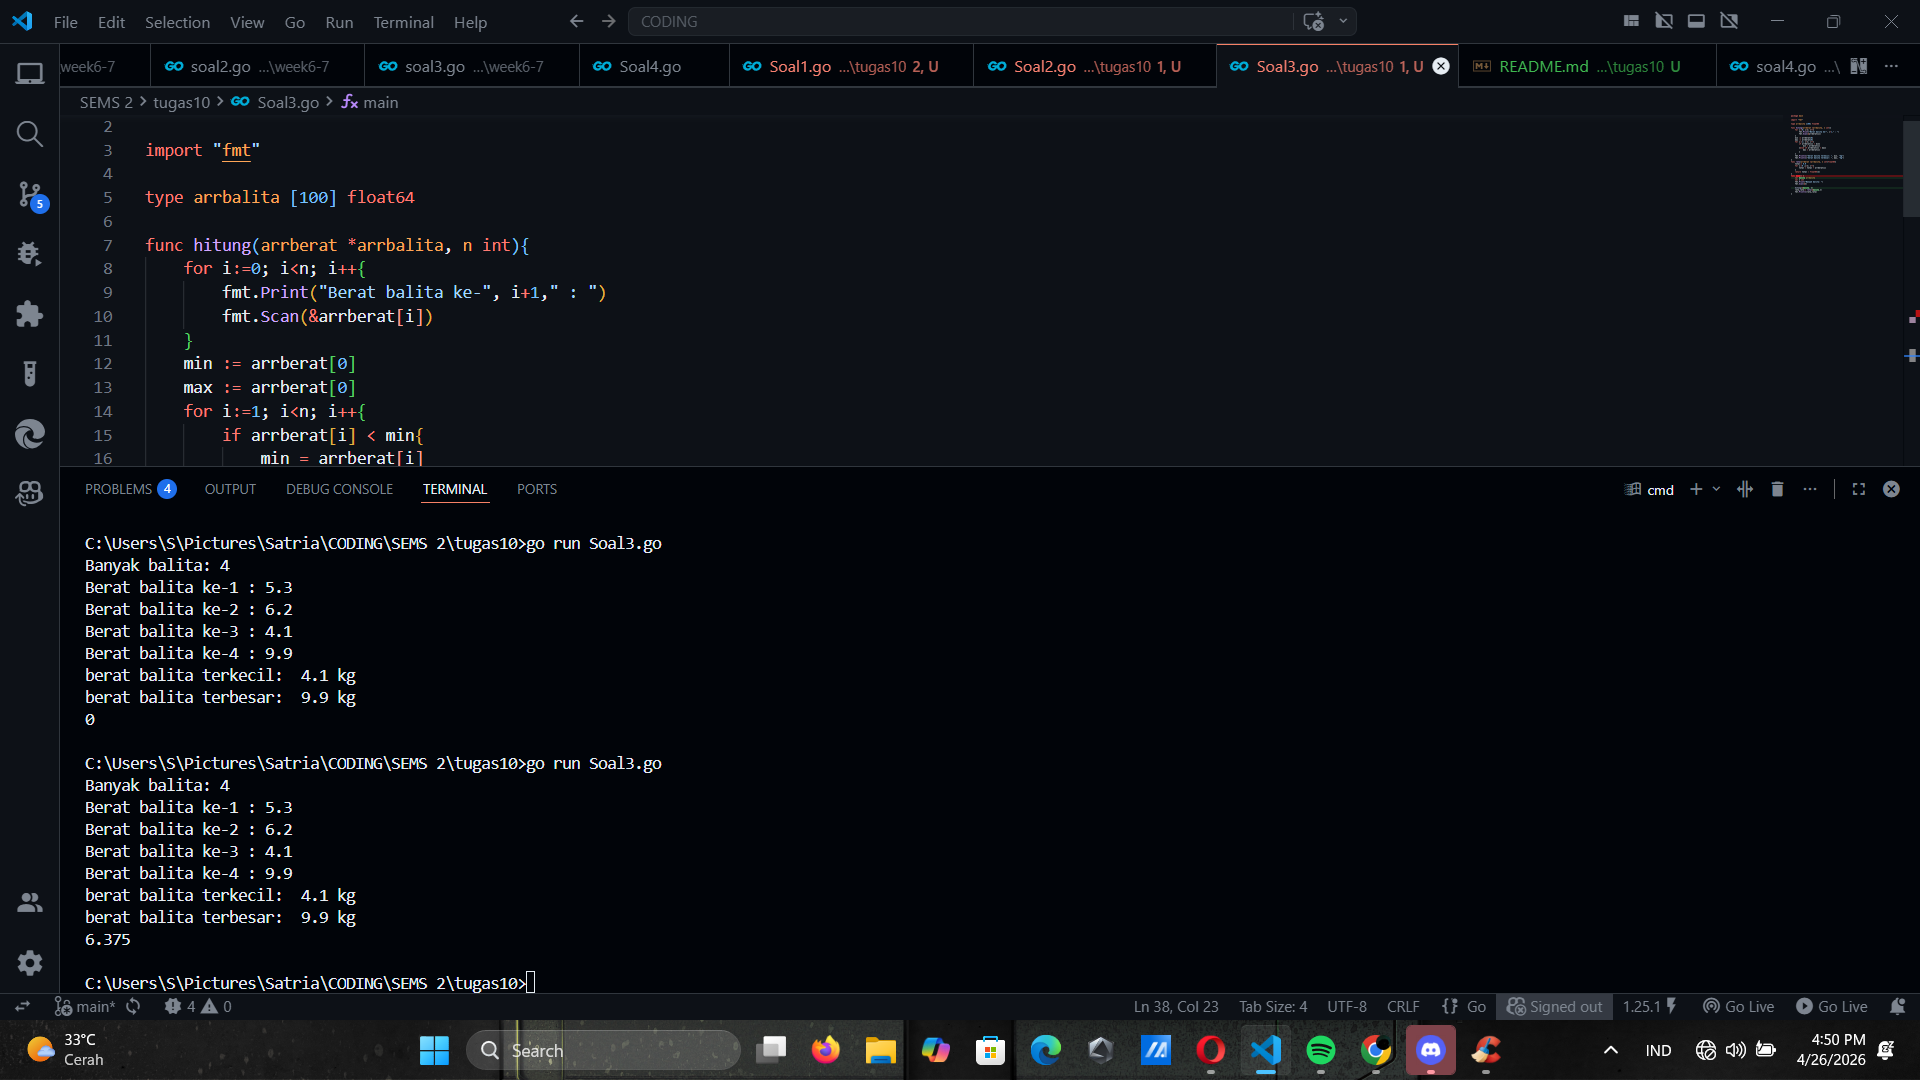
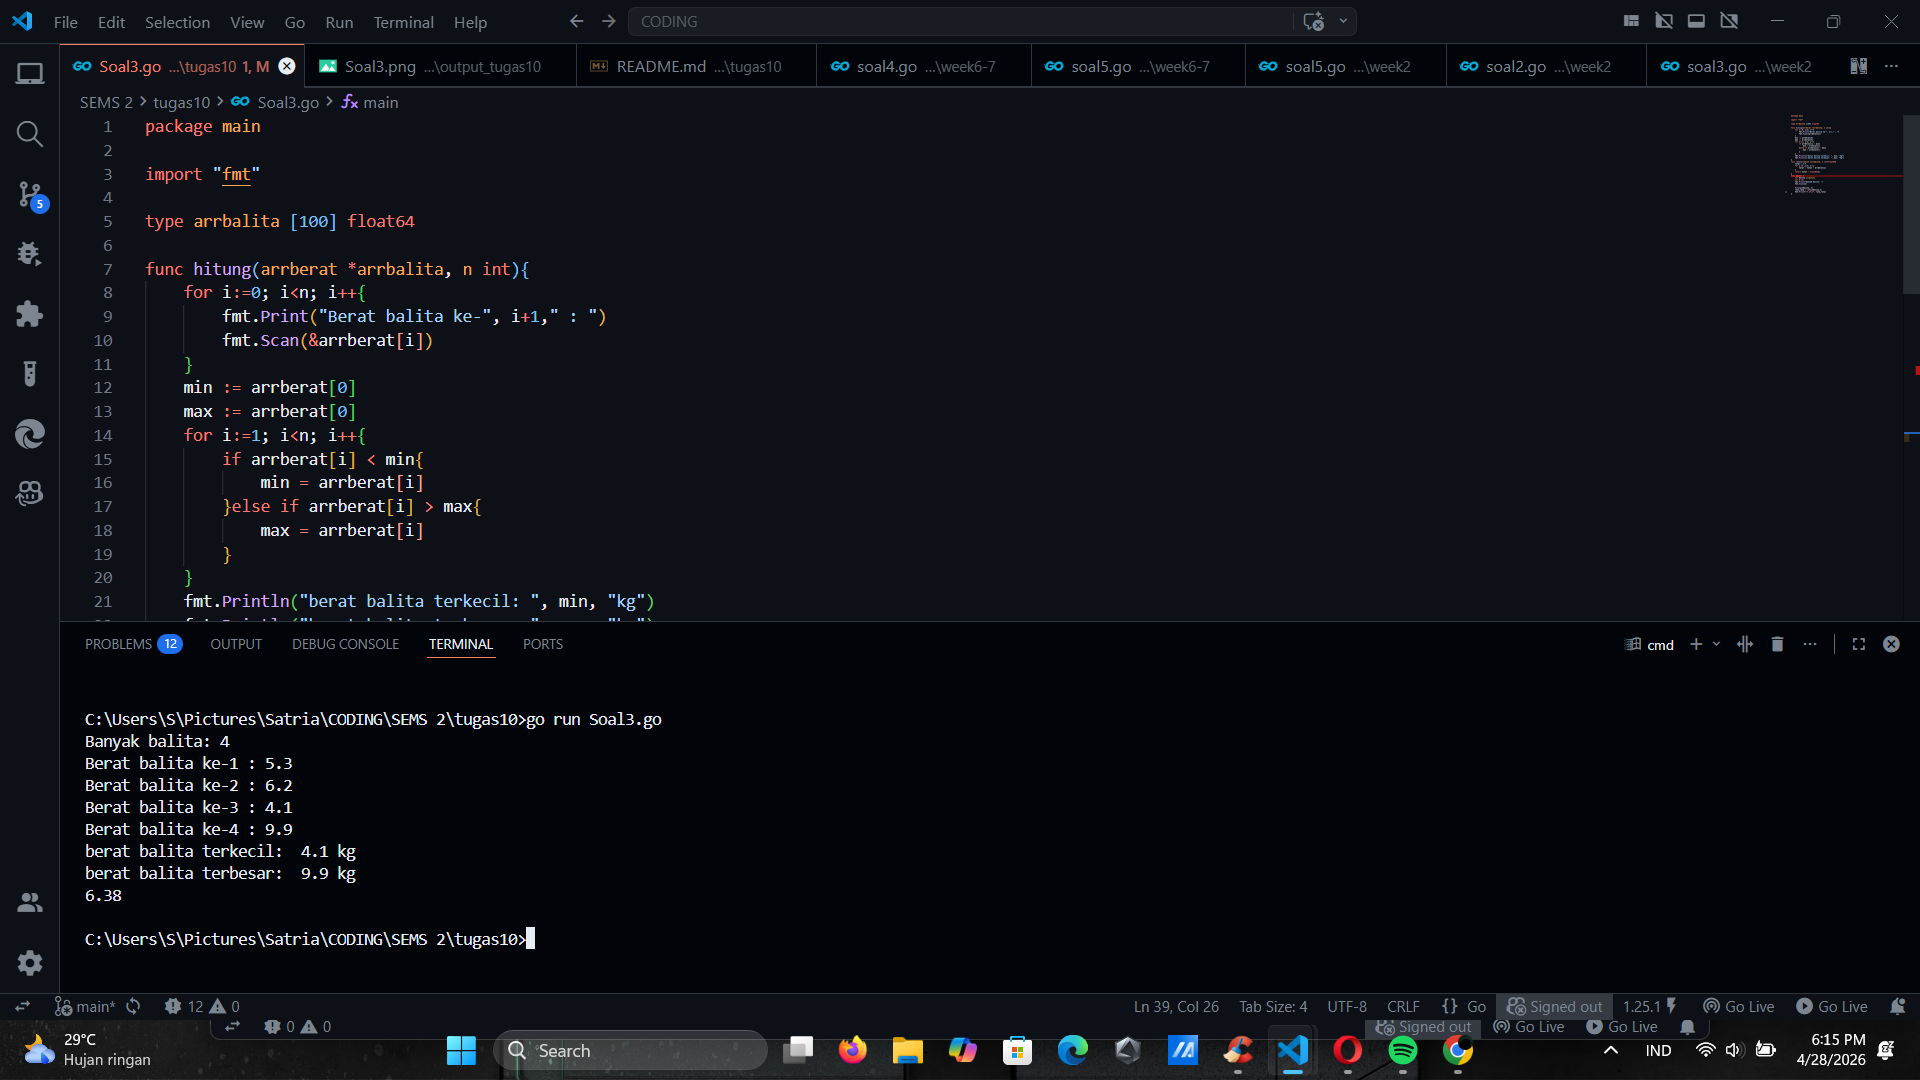
fix

diff --git a/tugas10/Soal2.go b/tugas10/Soal2.go
@@ -2,7 +2,6 @@ package main
 
 import "fmt"
 
-
 func main(){
 	var ikan [1000] float64
 	var x, y int
@@ -10,10 +9,8 @@ func main(){
 	fmt.Print("x, y: ")
 	fmt.Scan(&x, &y)
 
-	//wadah:= x/y
 	for i:=0; i<x; i++{
 		fmt.Scan(&ikan[i])
-
 	}
 	for i:=0; i<x; i+=y{
 		total = 0
@@ -22,8 +19,16 @@ func main(){
 			total = total + (ikan[j])
 			jumlah++
 		}
-		rata:= total / jumlah
-		fmt.Println("total: ", total)
-		fmt.Println("rata: ", rata)
+		fmt.Print(total, " ")
+	}
+fmt.Println()
+	for i:=0; i<x; i+=y{
+		total = 0
+		jumlah = 0
+		for j:= i; j<i+y && j<x; j++{
+			total = total + (ikan[j])
+			jumlah++
+		}
+		fmt.Print(total/jumlah, " ")
 	}
 }

diff --git a/tugas10/Soal3.go b/tugas10/Soal3.go
@@ -36,5 +36,5 @@ func main() {
 
 	hitung(&balita, n)
 	rata_rata:= rata(&balita,n)
-	fmt.Println(rata_rata)
+	fmt.Printf("%.2f\n", rata_rata)
 }

diff --git a/tugas10/laporanPraktikum.md b/tugas10/laporanPraktikum.md
@@ -3,14 +3,49 @@
 
 ## Unguided 
 
-### 1. [Cek lingkaran dengan tipe bentukan ]
-Suatu lingkaran didefinisikan dengan koordinat titik pusat (cx, cy) dengan radius r. Apabila
+### 1. [Cari Min Max ]
+Sebuah program digunakan untuk mendata berat anak kelinci yang akan dijual ke pasar.
+Program ini menggunakan array dengan kapasitas 1000 untuk menampung data berat anak
+kelinci yang akan dijual.
+Masukan terdiri dari sekumpulan bilangan, yang mana bilangan pertama adalah bilangan
+bulat N yang menyatakan banyaknya anak kelinci yang akan ditimbang beratnya. Selanjutnya
+N bilangan riil berikutnya adalah berat dari anak kelinci yang akan dijual.
+Keluaran terdiri dari dua buah bilangan riil yang menyatakan berat kelinci terkecil dan
+terbesar.
 
 #### Soal1.go
 
 ```go
 package main
 
+import "fmt"
+
+func minmax(arr [1000] float64, n int){
+	for i:=0; i<n; i++{
+		fmt.Print("berat Kelinci ", i+1, ": ")
+		fmt.Scan(&arr[i])
+	}
+	min := arr[0]
+	max := arr[0]
+	for i:=1; i<n; i++{
+		if arr[i] < min{
+			min = arr[i]
+		}else if arr[i] > max{
+			max = arr[i]
+		}
+	}
+	fmt.Println("berat kelinci terkecil: ", min)
+	fmt.Println("berat kelinci terbesar: ", max)
+}
+func main() {
+	var arr [1000] float64
+	var n int
+	
+	fmt.Print("Banyak kelinci: ")
+	fmt.Scan(&n)
+
+	minmax(arr, n)
+}
 
 ```
 ### Output Unguided :
@@ -18,37 +53,116 @@ package main
 ##### Output 
 ![Screenshot Output Unguided 1_1](https://github.com/Fathicc-ux/109082530029-Fathi-satriani-al/blob/main/tugas10/output_tugas10/Soal1.png)
 [penjelasan]
-Program in
+Program digunakan untuk mencari nilai min max dari sebuah input, input pertama menyatakan banyaknya kelinci input kedua adalah berat tiap kelinci. (berat tiap kelinci dalam index) setelah itu buat perulangan yang didalamnya ada percabangan untuk menentukan nilai min max, untuk perulangan saya mulai dari 1, dan percabangannya saya bandingkan dengan index [0] yang dimana jika nilai index [i] < nilai index [0] maka nilai index [0] akan digantikan dengan nilai index [i]
 
-### 2. [Array]
-Sebuah 
+### 2. [Mencari jumlah total dan rata rata tiap wadah ikan]
+Sebuah program digunakan untuk menentukan tarif ikan yang akan dijual ke pasar. Program
+ini menggunakan array dengan kapasitas 1000 untuk menampung data berat ikan yang akan
+dijual. Masukan terdiri dari dua baris, yang mana baris pertama terdiri dari dua bilangan bulat x dan
+y. Bilangan x menyatakan banyaknya ikan yang akan dijual, sedangkan y adalah banyaknya
+ikan yang akan dimasukan ke dalam wadah. Baris kedua terdiri dari sejumlah x bilangan riil
+yang menyatakan banyaknya ikan yang akan dijual.
+Keluaran terdiri dari dua baris. Baris pertama adalah kumpulan bilangan riil yang menyatakan
+total berat ikan di setiap wadah (jumlah wadah tergantung pada nilai x dan y, urutan ikan yang
+dimasukan ke dalam wadah sesuai urutan pada masukan baris ke-2). Baris kedua adalah
+sebuah bilangan riil yang menyatakan berat rata-rata ikan di setiap wadah. 
 #### Soal2.go
 
 ```go
 package main
 
+import "fmt"
 
+func main(){
+	var ikan [1000] float64
+	var x, y int
+	var total, jumlah float64
+	fmt.Print("x, y: ")
+	fmt.Scan(&x, &y)
+
+	for i:=0; i<x; i++{
+		fmt.Scan(&ikan[i])
+	}
+	for i:=0; i<x; i+=y{
+		total = 0
+		jumlah = 0
+		for j:= i; j<i+y && j<x; j++{
+			total = total + (ikan[j])
+			jumlah++
+		}
+		fmt.Print(total, " ")
+	}
+fmt.Println()
+	for i:=0; i<x; i+=y{
+		total = 0
+		jumlah = 0
+		for j:= i; j<i+y && j<x; j++{
+			total = total + (ikan[j])
+			jumlah++
+		}
+		fmt.Print(total/jumlah, " ")
+	}
+}
 ```
 ### Output Unguided :
 
 ##### Output 
 ![Screenshot Output Unguided 1_1](https://github.com/Fathicc-ux/109082530029-Fathi-satriani-al/blob/main/tugas10/output_tugas10/Soal2.png)
 [penjelasan]
-Sebuah 
+Ptogram digunakan untuk mencari total jumlah ikan tiap wadah, yang dimana isi ikan dalam wadah beratnya harus urut dengan apa yang diinput. Awal mula program meminta input baris pertama x,y "x" sebagai banyaknya ikan dan "y" jumlah ikan yang akan dimasukan dalam wadah, baris kedua input berat tiap ikan sebanyak x, lalu masuk ke perulangan dimulai dari 0 dan perulangan akan menambah sebanyak  nilai y untuk iterasi berikutnya sebagai jumlah wadah. Jumlah wadah ditentukan dari nilai x, y diawal keluran 2 baris, baris pertama menyatakan jumlah ikan tiap wadah dan baris kedua rata rata berat dalam tiap wadahnya
 
-### 3. [Mencari pemenang pertandingan]
-Sebuah 
+### 3. [Mencari nilai terberat dan teringan balita]
+Pos Pelayanan Terpadu (posyandu) sebagai tempat pelayanan kesehatan perlu mencatat data
+berat balita (dalam kg). Petugas akan memasukkan data tersebut ke dalam array. Dari data
+yang diperoleh akan dicari berat balita terkecil, terbesar, dan reratanya. 
 #### Soal3.go
 
 ```go
 package main
 
+import "fmt"
 
+type arrbalita [100] float64
+
+func hitung(arrberat *arrbalita, n int){
+	for i:=0; i<n; i++{
+		fmt.Print("Berat balita ke-", i+1," : ")
+		fmt.Scan(&arrberat[i])
+	}
+	min := arrberat[0]
+	max := arrberat[0]
+	for i:=1; i<n; i++{
+		if arrberat[i] < min{
+			min = arrberat[i]
+		}else if arrberat[i] > max{
+			max = arrberat[i]
+		}
+	}
+	fmt.Println("berat balita terkecil: ", min, "kg")
+	fmt.Println("berat balita terbesar: ", max, "kg")
+}
+func rata(arrberat *arrbalita, n int)float64{
+	total:= 0.0
+	for i:=0 ;i<n; i++{
+		total = total + arrberat[i]
+	}
+	return total / float64(n)
+}
+func main() {
+	var balita arrbalita
+	var n int
+	fmt.Print("Banyak balita: ")
+	fmt.Scan(&n)
+
+	hitung(&balita, n)
+	rata_rata:= rata(&balita,n)
+	fmt.Printf("%.2f\n", rata_rata)
+}
 ```
 ### Output Unguided :
 
 ##### Output 
 ![Screenshot Output Unguided 1_1](https://github.com/Fathicc-ux/109082530029-Fathi-satriani-al/blob/main/tugas10/output_tugas10/Soal3.png)
 [penjelasan]
-Program d
+Program ini digunakan untuk mencari nilai min max, programnya hampir sama seperti nomor 1 tapi ini ada tambahan untuk hitung rata rata, yang dimana berat balita yang kita input ditambahkan lalu hasilnya dibagi banyaknya balita
 
